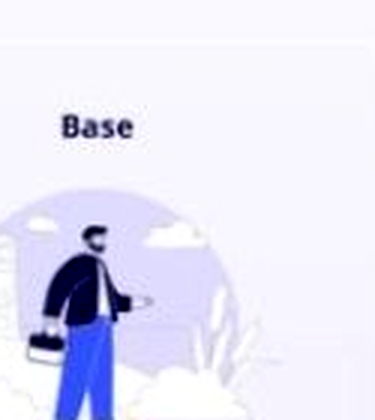
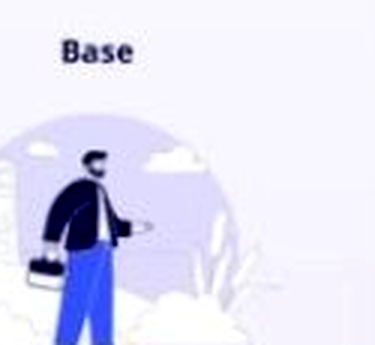
fix(pricing): trim extraneous labels from artwork and restore .99 pricing copy

diff --git a/index.html b/index.html
@@ -7213,7 +7213,7 @@
                   </div>
                   <h3 class="ct-card-name">Nexus Direct</h3>
                   <div class="ct-card-sub">Creator Membership</div>
-                  <div class="ct-card-pill is-hero-pill">0% Commission · Flat .99/mo</div>
+                  <div class="ct-card-pill is-hero-pill">0% Commission · Flat $19.99/mo</div>
                 </div>
 
                 <div class="ct-card-rows">
@@ -7227,7 +7227,7 @@
                     <span class="ct-check-icon" aria-hidden="true">
                       <svg width="11" height="11" viewBox="0 0 24 24" fill="none" stroke="currentColor" stroke-width="3.5" stroke-linecap="round" stroke-linejoin="round"><polyline points="20 6 9 17 4 12"/></svg>
                     </span>
-                    <span>Flat .99 / month (First 100 get 90d free)</span>
+                    <span>Flat $19.99 / month (First 100 get 90d free)</span>
                   </div>
                   <div class="ct-row">
                     <span class="ct-check-icon" aria-hidden="true">
@@ -7335,7 +7335,7 @@
 
           <!-- Bottom Learner Link -->
           <p class="ct-learn nx-reveal">
-            Here to learn? A learner membership for all classes is coming at .99 a month. 
+            Here to learn? A learner membership for all classes is coming at $11.99 a month. 
             <a href="#founding">Join the waitlist →</a>
           </p>
         </div>
